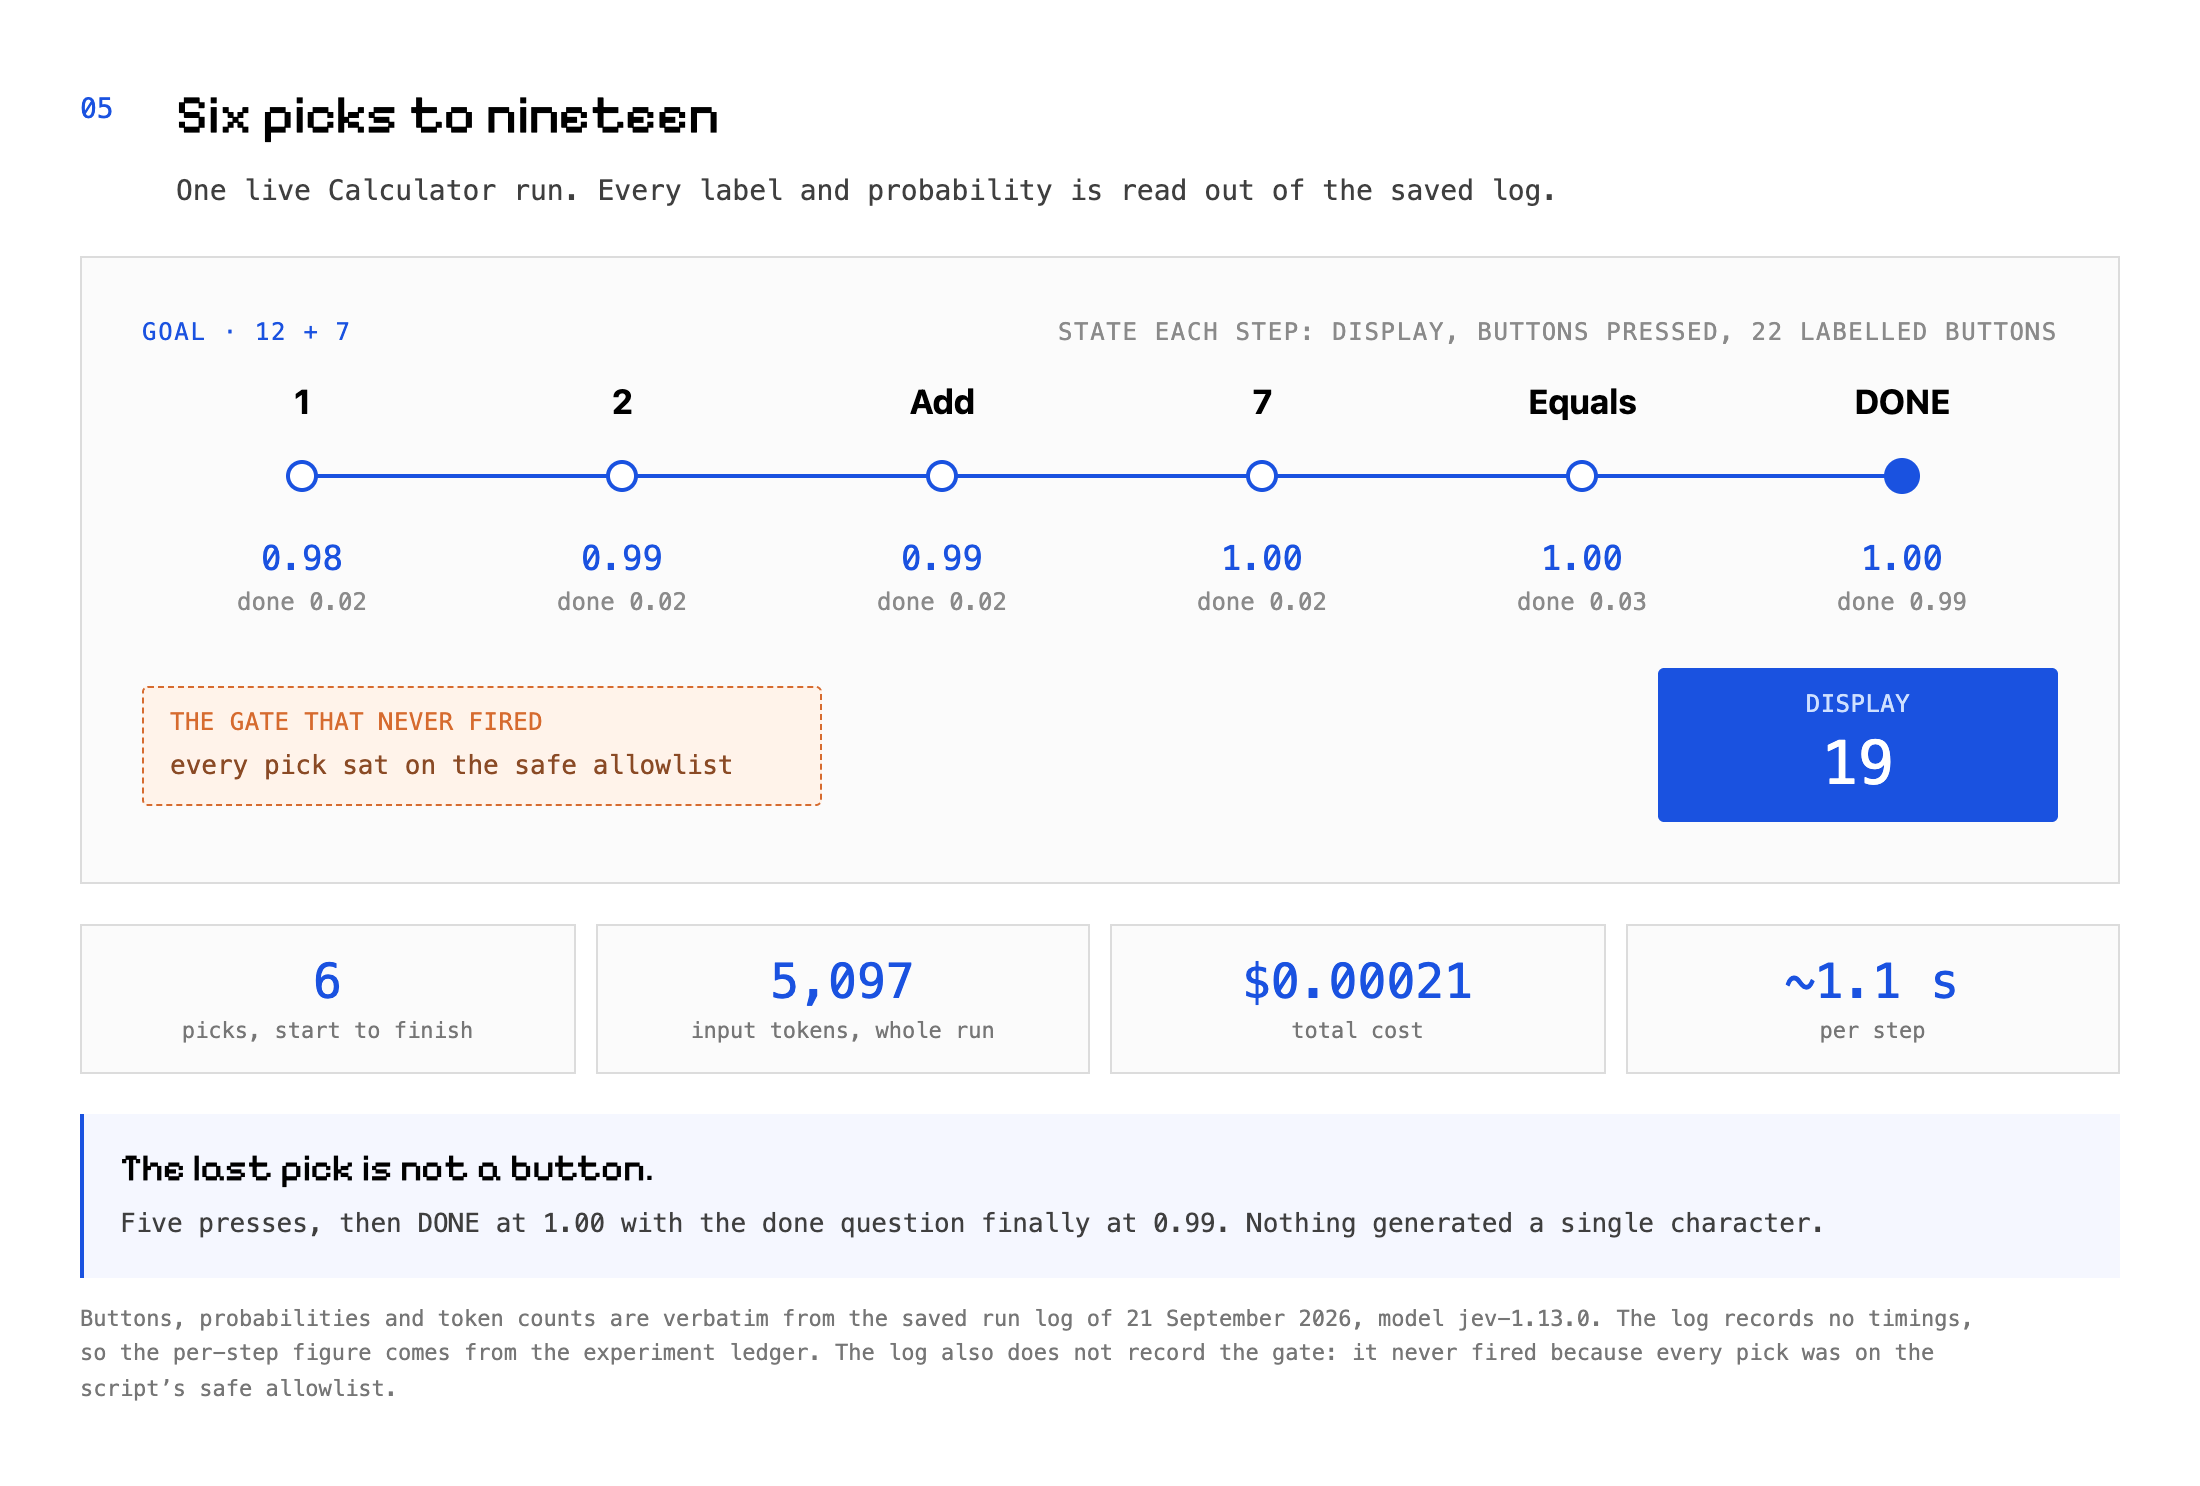
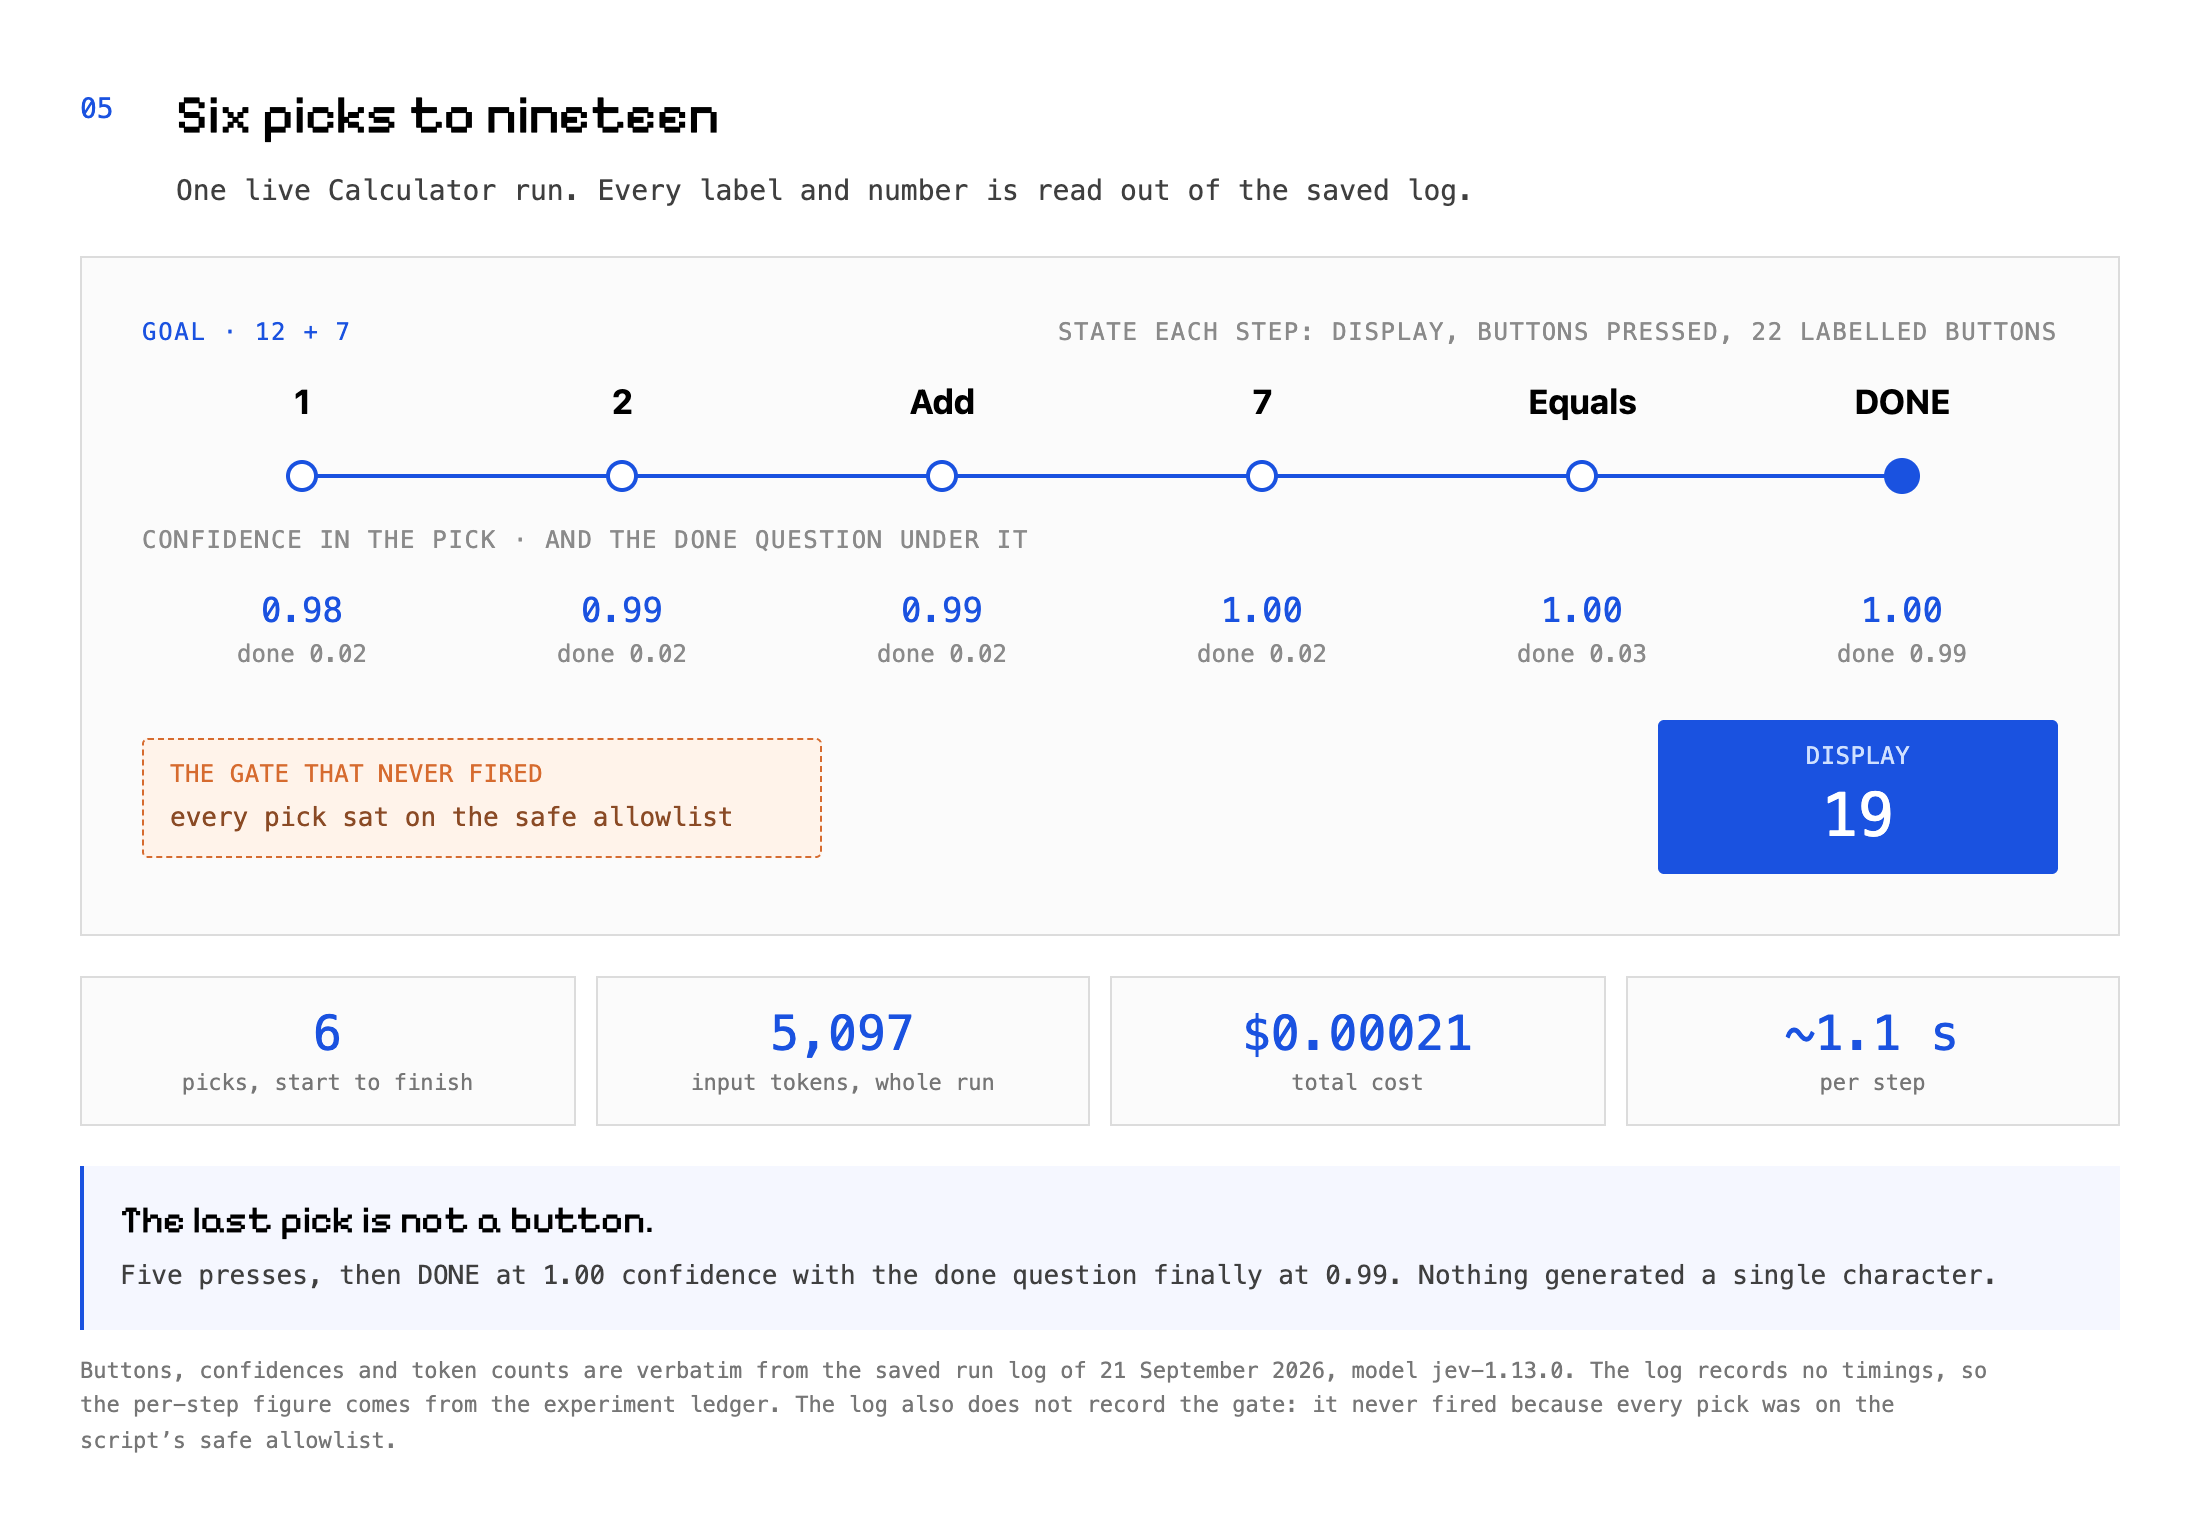
reading(jev): say confidence, not probability, for the pick values
The Calculator run log's 0.98-1.00 values are the Choice `confidence`
field, a different quantity from the mass on the winning option (0.99 and
1.00 there). Section 6 of the post teaches that distinction, so the trace
had to honour it. Also: General Formation's gates "shipped" rather than
"running", and output tokens are free but not absent (204 per step).

Claude-Session: https://claude.ai/code/session_01RUEUmnpkCv6Cm8zXUByTM3

diff --git a/reading/jev/index.html b/reading/jev/index.html
@@ -79,15 +79,15 @@
 
 <section class="reading-text-section">
 <p>“A hotdog in a bun with mustard.” I asked a model whether that is a sandwich. It did not argue with me. It returned 0.66.</p>
-<p>Then I pointed the same model at the macOS Calculator. It cannot see a screen. It read the window’s buttons as a list of text labels, picked one label at a time, and solved 12 + 7 in six picks. Every pick came back at 98 to 100 percent. The whole run cost $0.00021, about two hundredths of a cent.</p>
+<p>Then I pointed the same model at the macOS Calculator. It cannot see a screen. It read the window’s buttons as a list of text labels, picked one label at a time, and solved 12 + 7 in six picks. Every pick came back with the model 98 to 100 percent confident. The whole run cost $0.00021, about two hundredths of a cent.</p>
 <p>The model is Jev, from a company called TypeSafe. It is a classifier, not a writer. Everything below is that same trick wearing different clothes.</p>
 </section>
 
 <section class="reading-text-section">
 <h2>What it actually does</h2>
 <p>TypeSafe trained it against a different output contract than a chatbot has. Their primer is blunt about it: “The model does not generate text.” It returns decisions and probabilities, and the probabilities are meant to be calibrated, so that answers given 0.8 “should occur about 80% of the time.”</p>
-<p>You send two things. A <em>state</em>, which is any text at all: a web page, a table of page elements, a Mac window’s accessibility tree, OCR of your own screen, a journal entry. And typed questions. Two kinds matter here. A yes/no question, which TypeSafe calls a Noul, comes back as one probability. A pick comes back as a distribution over options you named, plus a winner. Many questions ride in one request.</p>
-<p>Because it never generates, it cannot fill in free text. The menu has to exist before Jev sees it. Pin the version, because thresholds are tuned to one. Input costs $0.042 per million tokens and output is free, since there is no output.</p>
+<p>You send two things. A <em>state</em>, which is any text at all: a web page, a table of page elements, a Mac window’s accessibility tree, OCR of your own screen, a journal entry. And typed questions. Two kinds matter here. A yes/no question, which TypeSafe calls a Noul, comes back as one probability. A pick comes back as a distribution over the options you named, plus a winner and a confidence in that winner. Many questions ride in one request.</p>
+<p>Because it never generates, it cannot fill in free text. The menu has to exist before Jev sees it. Pin the version, because thresholds are tuned to one. Input costs $0.042 per million tokens and output is free.</p>
 </section>
 
 <figure class="detail-media diagram">
@@ -115,7 +115,7 @@
 <h2>Where I would put it, across everything I run</h2>
 <p><strong>Computer and browser control.</strong> Browser Use’s <a href="https://github.com/browser-use/jev-ultrafast" rel="noopener">jev-ultrafast</a> is the proof that this runs at speed: the page becomes a numbered element table, Jev picks an operation and a target in one request per step, and a small language model writes text only when the operation is a typing one. Their recorded Google Flights run finishes in 7.1 seconds. <span class="stat-tag">theirs · live</span> My own voice REPL is the same loop from dictation: one request maps a sentence to open-app, click, or nothing, with a destructive gate in front. It costs about $0.0002 a command and Jev answers in 1.2 to 1.6 seconds. One intent per utterance, so compound sentences still need a planner in front. <span class="stat-tag">built</span> The native-app lane, driving Mac apps through the accessibility tree, works where there is no web page to read, which makes it narrow. <span class="stat-tag">parked</span></p>
 <p><strong>Watching you, rather than acting.</strong> Familiar OCRs my screen every few seconds. The classifier asks three questions of every capture: which project is this, is it deep work, is it a distraction. A day is 163 captures and the dry run prices it at about $0.004. What comes out is a calibrated timeline of my own day, for less than half a cent. <span class="stat-tag">built</span></p>
-<p><strong>Gates inside things I already shipped.</strong> In Distill, the judgment rules and stop conditions a recording already carries become yes/no gates before an agent acts, and the acceptance criteria become a validation score. <span class="stat-tag">idea</span> In General Formation it is already running: a commercial-claims gate, learned-skill selection, verified citations. <span class="stat-tag live">live</span> In my own computer-use agent it can pick which tool to call but cannot fill a free-text argument, which makes it half a replacement. <span class="stat-tag">parked</span> And in the screenshot agent, it can take the “am I done” question and the consequence gate, but never the part that looks. <span class="stat-tag">idea</span></p>
+<p><strong>Gates inside things I already shipped.</strong> In Distill, the judgment rules and stop conditions a recording already carries become yes/no gates before an agent acts, and the acceptance criteria become a validation score. <span class="stat-tag">idea</span> In General Formation it has already shipped: a commercial-claims gate, learned-skill selection, verified citations. <span class="stat-tag live">live</span> In my own computer-use agent it can pick which tool to call but cannot fill a free-text argument, which makes it half a replacement. <span class="stat-tag">parked</span> And in the screenshot agent, it can take the “am I done” question and the consequence gate, but never the part that looks. <span class="stat-tag">idea</span></p>
 </section>
 
 <figure class="detail-media diagram">
@@ -149,13 +149,13 @@
 
 <section class="reading-text-section">
 <h2>A real trace: six picks to nineteen</h2>
-<p>Goal: 12 + 7. Each step sends the goal, the display, the buttons pressed so far, and the 22 labelled buttons read off Calculator’s accessibility tree. Two questions come back: which button next, and is the goal already reached.</p>
-<p>It pressed 1 at 0.98, then 2 at 0.99, then Add at 0.99, then 7 at 1.00, then Equals at 1.00. The done question sat at 0.02 or 0.03 the entire way. Then the display read 19, and the sixth answer was not a button at all: it picked DONE at 1.00, with the done question finally at 0.99.</p>
+<p>Goal: 12 + 7. Each step sends the goal, the display, the buttons pressed so far, and the 22 labelled buttons read off Calculator’s accessibility tree. Two questions come back: which button next, with a confidence in that pick, and is the goal already reached.</p>
+<p>It pressed 1 at 0.98 confidence, then 2 at 0.99, then Add at 0.99, then 7 at 1.00, then Equals at 1.00. The done question sat at 0.02 or 0.03 the entire way. Then the display read 19, and the sixth answer was not a button at all: it picked DONE at 1.00 confidence, with the done question finally at 0.99.</p>
 <p>Five thousand and ninety-seven input tokens for the whole run, which is $0.00021. Every button it picked was on the script’s safe allowlist, so the destructive gate never fired once.</p>
 </section>
 
 <figure class="detail-media diagram">
-  <a href="img/05-six-picks.png"><img src="img/05-six-picks.png" alt="Diagram: a six-node timeline of one Calculator run. The nodes read 1, 2, Add, 7, Equals and DONE, each with its pick probability in blue below it reading 0.98, 0.99, 0.99, 1.00, 1.00 and 1.00, and the done-question value below that reading 0.02, 0.02, 0.02, 0.02, 0.03 and 0.99. A small orange card to the side reads irreversible, never fired. Four stat tiles below read 6 picks, 5,097 input tokens, $0.00021 and about 1.1 seconds per step." loading="lazy"></a>
+  <a href="img/05-six-picks.png"><img src="img/05-six-picks.png" alt="Diagram: a six-node timeline of one Calculator run. The nodes read 1, 2, Add, 7, Equals and DONE, each with its pick confidence in blue below it reading 0.98, 0.99, 0.99, 1.00, 1.00 and 1.00, and the done-question value below that reading 0.02, 0.02, 0.02, 0.02, 0.03 and 0.99. A small orange card to the side reads irreversible, never fired. Four stat tiles below read 6 picks, 5,097 input tokens, $0.00021 and about 1.1 seconds per step." loading="lazy"></a>
   <figcaption>The run log, node by node. The only step that changed its mind about being finished is the last one.</figcaption>
 </figure>
 

diff --git a/reading/jev/diagrams/index.html b/reading/jev/diagrams/index.html
@@ -354,7 +354,7 @@ body { background: #d9d9d9; font-family: var(--mono); color: var(--text); paddin
     <span class="shot-index">05</span>
     <div>
       <h2>Six picks to nineteen</h2>
-      <p>One live Calculator run. Every label and probability is read out of the saved log.</p>
+      <p>One live Calculator run. Every label and number is read out of the saved log.</p>
     </div>
   </div>
   <div class="scene">
@@ -382,7 +382,8 @@ body { background: #d9d9d9; font-family: var(--mono); color: var(--text); paddin
       <circle cx="880" cy="15" r="9" fill="#1a52e0"/>
     </svg>
 
-    <div class="tl6" style="margin-top:4px;">
+    <p class="mono-caption gray" style="margin:10px 0 0;">confidence in the pick &middot; and the done question under it</p>
+    <div class="tl6" style="margin-top:6px;">
       <div><span class="p">0.98</span><span class="d">done 0.02</span></div>
       <div><span class="p">0.99</span><span class="d">done 0.02</span></div>
       <div><span class="p">0.99</span><span class="d">done 0.02</span></div>
@@ -410,9 +411,9 @@ body { background: #d9d9d9; font-family: var(--mono); color: var(--text); paddin
   </div>
   <div class="callout">
     <strong>The last pick is not a button.</strong>
-    <p>Five presses, then DONE at 1.00 with the done question finally at 0.99. Nothing generated a single character.</p>
+    <p>Five presses, then DONE at 1.00 confidence with the done question finally at 0.99. Nothing generated a single character.</p>
   </div>
-  <p class="footnote">Buttons, probabilities and token counts are verbatim from the saved run log of 21 September 2026, model jev-1.13.0. The log records no timings, so the per-step figure comes from the experiment ledger. The log also does not record the gate: it never fired because every pick was on the script&rsquo;s safe allowlist.</p>
+  <p class="footnote">Buttons, confidences and token counts are verbatim from the saved run log of 21 September 2026, model jev-1.13.0. The log records no timings, so the per-step figure comes from the experiment ledger. The log also does not record the gate: it never fired because every pick was on the script&rsquo;s safe allowlist.</p>
 </div>
 
 </body>
